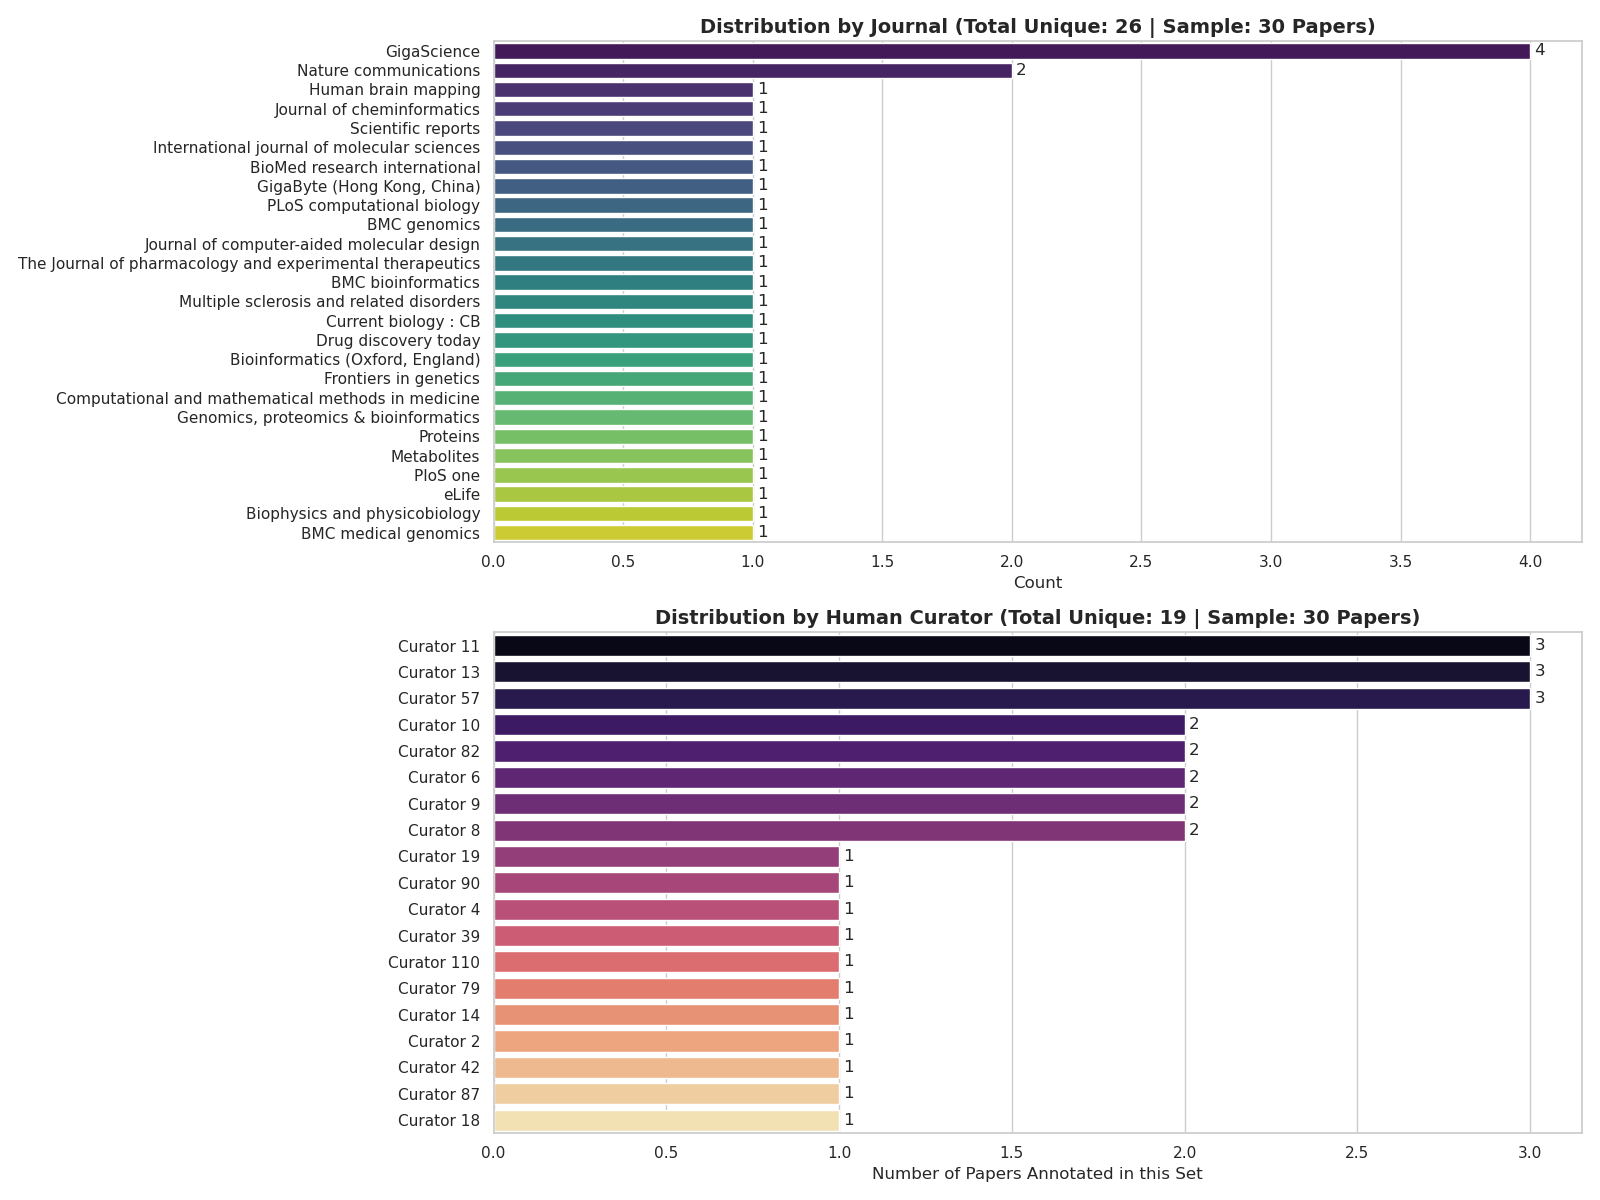
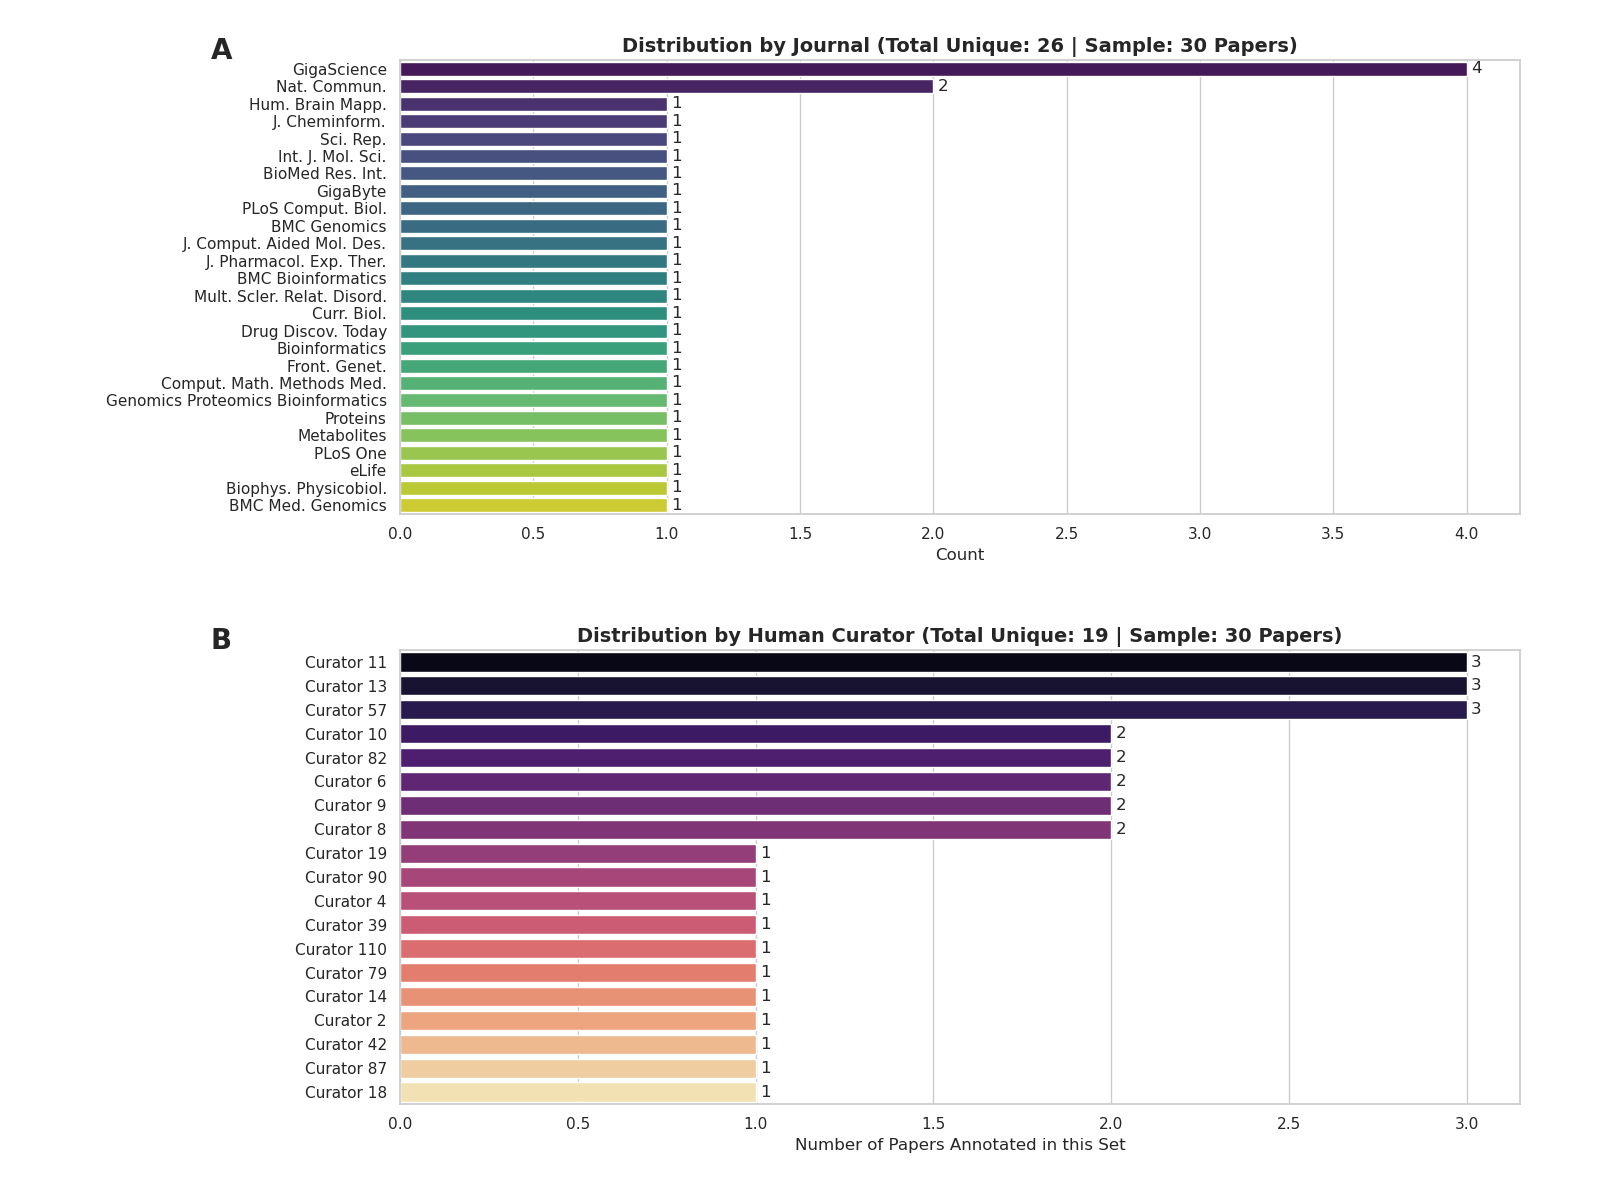
UPdates the journal image for supplementayr on n=30 msubset

diff --git a/Human_30_Copilot_vs_Human_Evaluations_Interface/generate_evaluation_analysis_plots.py b/Human_30_Copilot_vs_Human_Evaluations_Interface/generate_evaluation_analysis_plots.py
@@ -38,6 +38,7 @@ USERS_FILE = "DOME_Registry_Users_20260202.json"
 POSSIBLE_DATA_DIRS = [
     os.path.join(SCRIPT_DIR, "../30_human_evaluation"),
     os.path.join(SCRIPT_DIR, "30_Evaluation_Source_JSONs_Human_and_Copilot_Including_PDFs"),
+    os.path.join(SCRIPT_DIR, "../Human_30_Evaluation_Source_JSONs_Human_and_Copilot_Including_PDFs"),
     os.path.join(SCRIPT_DIR, "30_human_evaluation"),
 ]
 DATA_DIR = None
@@ -216,12 +217,51 @@ def run_diversity_analysis(doi_to_oid, oid_to_user):
 
     df_stats = pd.DataFrame(stats_list)
 
+    # Dictionary for standard journal abbreviations to reduce dead space
+    journal_abbr = {
+        "BioMed research international": "BioMed Res. Int.",
+        "Multiple sclerosis and related disorders": "Mult. Scler. Relat. Disord.",
+        "Drug discovery today": "Drug Discov. Today",
+        "Human brain mapping": "Hum. Brain Mapp.",
+        "PloS one": "PLoS One",
+        "GigaByte (Hong Kong, China)": "GigaByte",
+        "Current biology : CB": "Curr. Biol.",
+        "Bioinformatics (Oxford, England)": "Bioinformatics",
+        "PLoS computational biology": "PLoS Comput. Biol.",
+        "Scientific reports": "Sci. Rep.",
+        "Nature communications": "Nat. Commun.",
+        "BMC medical genomics": "BMC Med. Genomics",
+        "Frontiers in genetics": "Front. Genet.",
+        "Genomics, proteomics & bioinformatics": "Genomics Proteomics Bioinformatics",
+        "The Journal of pharmacology and experimental therapeutics": "J. Pharmacol. Exp. Ther.",
+        "Computational and mathematical methods in medicine": "Comput. Math. Methods Med.",
+        "Biophysics and physicobiology": "Biophys. Physicobiol.",
+        "Journal of computer-aided molecular design": "J. Comput. Aided Mol. Des.",
+        "Journal of cheminformatics": "J. Cheminform.",
+        "International journal of molecular sciences": "Int. J. Mol. Sci.",
+        "BMC genomics": "BMC Genomics",
+        "BMC bioinformatics": "BMC Bioinformatics",
+        "eLife": "eLife",
+        "GigaScience": "GigaScience",
+        "Proteins": "Proteins",
+        "Metabolites": "Metabolites"
+    }
+
+    print("\n--- Journal Abbreviation Changes ---")
+    def abbreviate_journal(j):
+        abbr = journal_abbr.get(j.strip(), j.strip())
+        if abbr != j.strip():
+            print(f"'{j}' -> '{abbr}'")
+        return abbr
+
+    df_stats['Journal'] = df_stats['Journal'].apply(abbreviate_journal)
+
     # Visualization
     sns.set_style("whitegrid")
 
     # --- Plot 05: Diversity (Journal + Curator) ---
     fig5 = plt.figure(figsize=(16, 12)) 
-    gs5 = fig5.add_gridspec(2, 1, height_ratios=[1, 1])
+    gs5 = fig5.add_gridspec(2, 1, height_ratios=[1, 1], hspace=0.3)
 
     # Plot 1: Journal Distribution (ALL)
     ax1 = fig5.add_subplot(gs5[0])
@@ -231,6 +271,10 @@ def run_diversity_analysis(doi_to_oid, oid_to_user):
     ax1.set_title(f'Distribution by Journal (Total Unique: {unique_journals} | Sample: {len(df_stats)} Papers)', fontsize=14, fontweight='bold')
     ax1.set_xlabel('Count')
     ax1.set_ylabel('')
+    
+    # Add Panel Label 'A'
+    ax1.text(-0.15, 1.05, 'A', transform=ax1.transAxes, fontsize=20, fontweight='bold', va='top', ha='right')
+
     # Add count labels
     for container in ax1.containers:
         ax1.bar_label(container, padding=3)
@@ -244,11 +288,17 @@ def run_diversity_analysis(doi_to_oid, oid_to_user):
     ax2.set_title(f'Distribution by Human Curator (Total Unique: {unique_curators} | Sample: {len(df_stats)} Papers)', fontsize=14, fontweight='bold')
     ax2.set_xlabel('Number of Papers Annotated in this Set')
     ax2.set_ylabel('')
+    
+    # Add Panel Label 'B'
+    ax2.text(-0.15, 1.05, 'B', transform=ax2.transAxes, fontsize=20, fontweight='bold', va='top', ha='right')
+
     # Add count labels
     for container in ax2.containers:
         ax2.bar_label(container, padding=3)
 
-    plt.tight_layout()
+    # Increase left margin to accommodate abbreviated names without excess dead space
+    plt.subplots_adjust(left=0.25, right=0.95, top=0.95, bottom=0.08)
+
     filepath_05 = os.path.join(PLOTS_DIR, '05_Diversity_Journal_Curator.png')
     plt.savefig(filepath_05)
     plt.close()
